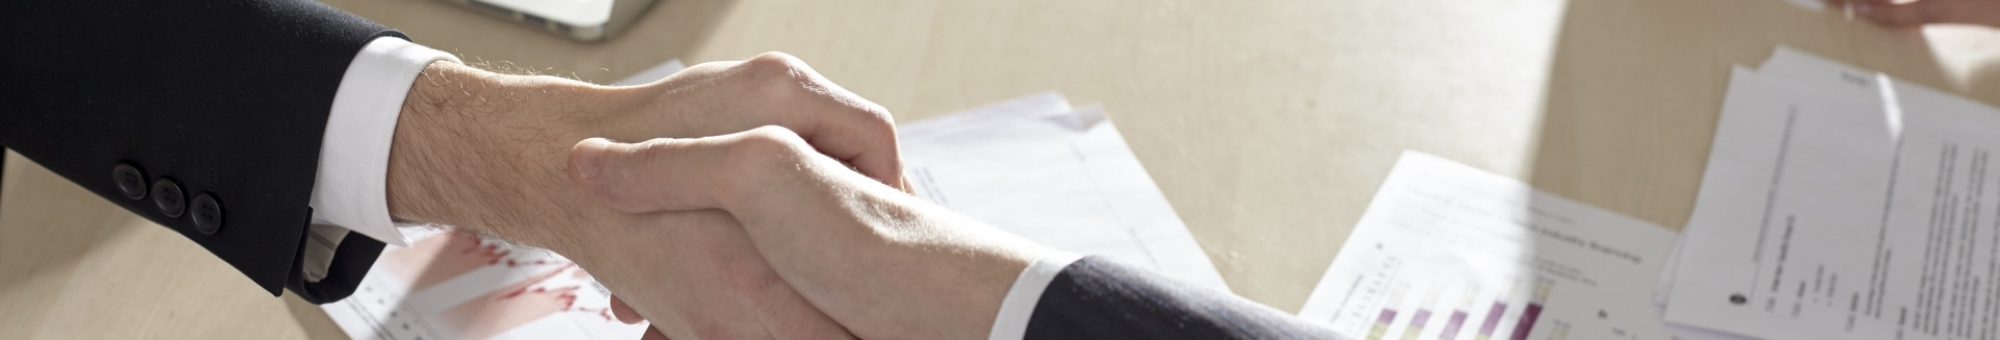
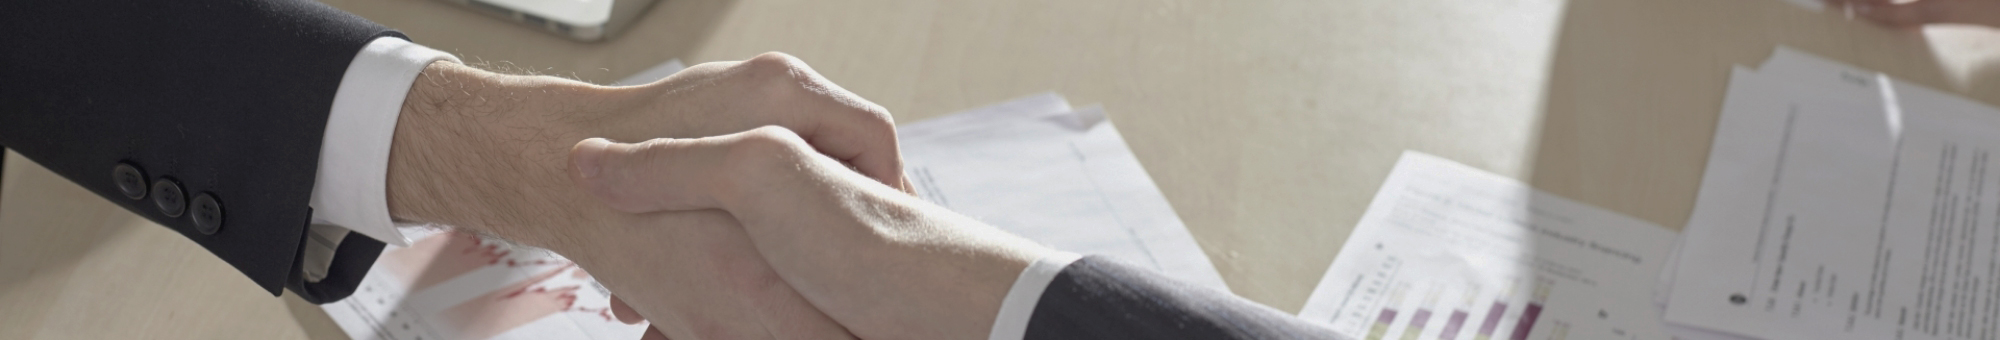
11/6更新

diff --git a/style.css b/style.css
@@ -123,7 +123,7 @@ iframe {
 -------------------------------------------------------------*/
 :root {
     --base-color: #ffffff;
-    --main-color: #333333;
+    --main-color: #383838;
     --link-color: #66b821;
     --card-font-color: #D8F4C1;
     --underline-color: #AFFD6B;
@@ -135,11 +135,13 @@ body {
 
 
 a {
+    color: var(--link-color);
     outline: none;
     text-decoration: none;
 }
 
 a:hover {
+    color: var(--link-color);
     outline: none;
     text-decoration: none;
 }
@@ -193,6 +195,7 @@ a:focus {
     align-items: center;
     justify-content: center;
     column-gap: 10px;
+    row-gap: 10px;
 }
 
 .nav-box .flex-item {
@@ -214,8 +217,8 @@ a:focus {
     height: 2px;
     background: var(--underline-color);
     transform: scale(0, 1);
-    transform-origin: left top;
-    transition: transform 0.7s;
+    transform-origin: top top;
+    transition: transform 0.6s ease-in;
 }
 
 .nav-box .flex-item a:hover::after{
@@ -235,15 +238,23 @@ a:focus {
     
 }
 .service-guide {
-    padding-top: 60px;
+    padding-top: 40px;
     padding-left: 20%;
-    padding-bottom: 60px;
+    padding-bottom: 40px;
     background-image: url(images/handshake.jpg);
     background-size: cover;
-    filter: brightness(95%);
+    position: relative;
 }
-.service-guide span {
-    z-index: 2;
+
+.service-guide a {
+    color: var(--base-color);
+    filter: drop-shadow(2px 2px 2px rgba(0, 0, 0, 0.4));
+}
+
+.service-guide .click {
+    filter: drop-shadow(1px 1px 2px rgba(0, 0, 0, 0.4));
+    position: absolute;
+    right: 10%;
 }
 
 .sidebar1 {
@@ -259,6 +270,11 @@ X.footer
 -------------------------------------------------------------*/
 
 .footer {
+    color: var(--card-font-color);
     width: 100%;
+    padding-top: 1rem;
     min-height: 100px;
+    background-color: var(--main-color);
+    justify-content: center;
+    align-items: center;
 }

diff --git a/index.html b/index.html
@@ -46,7 +46,11 @@
         </main>
         <aside class="sidebar sidebar2"></aside>
         </div>
-        <footer id="footer" class="footer"></footer>
+        <footer id="footer" class="footer flex-box">
+            <div class="flex-item">
+                <p><small>©2016－2020　株式会社LABwel<br>〒914-0131福井県敦賀市公文名51-10-1<br>TEL&nbsp;0770-47-6526&nbsp;&nbsp;	FAX&nbsp;0770-47-6527</small></p>
+            </div>
+        </footer>
     </div>
     <!-- jQuery -->
     <script src="https://ajax.googleapis.com/ajax/libs/jquery/3.5.1/jquery.min.js"></script>
